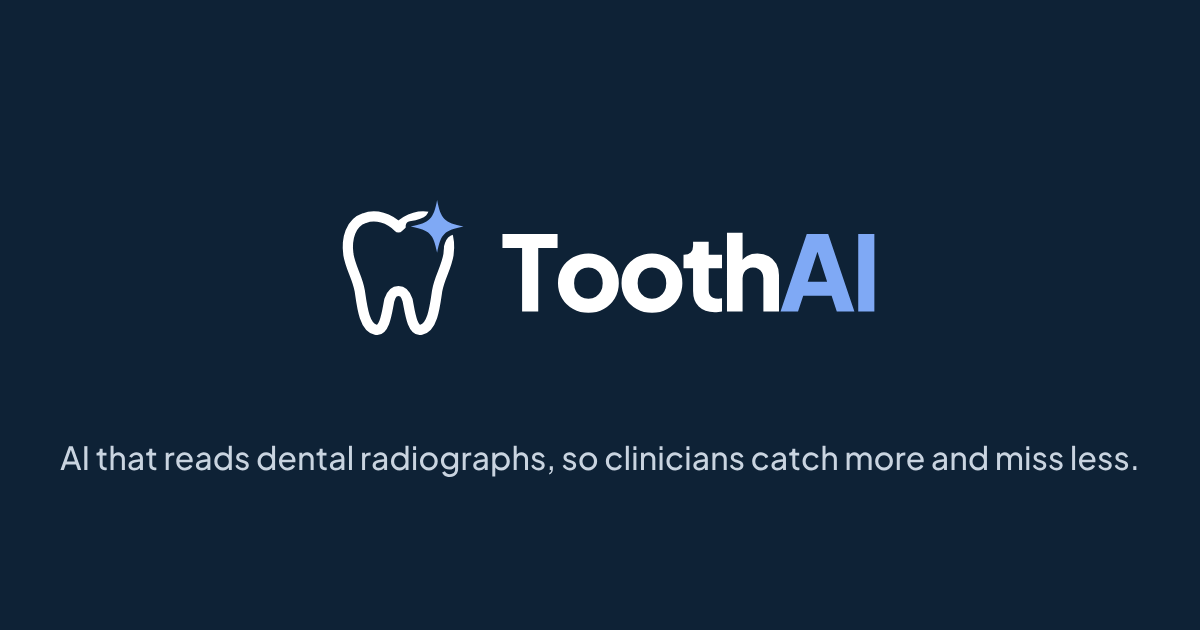
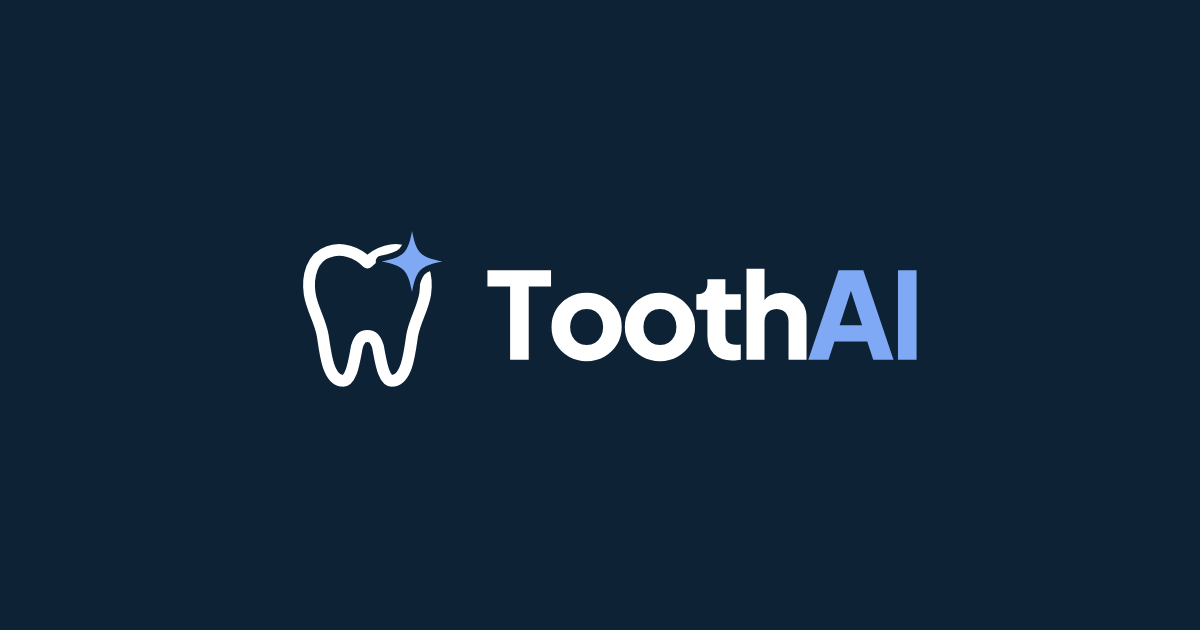
Link-preview card: the lockup alone, centred on navy (no tagline)

Changed region(s): [[0.2467, 0.3317, 0.7708, 0.6333], [0.0308, 0.6937, 0.9558, 0.754]]

diff --git a/tools/build_brand.py b/tools/build_brand.py
@@ -144,18 +144,16 @@ def favicon(px=48, uid="f"):
 
 
 def og_card():
+    """Link-preview card: the lockup alone, centred on navy (no tagline: previews are small)."""
     w, h = 1200, 630
-    size = 104
+    size = 120
     m, gap = 1.4 * size, 0.3 * size
     lo, hi = WORD.ink_bounds("ToothAI", size, TRACK)
     block = m + gap + hi - lo
-    bx, by = (w - block) / 2, 200
-    tag = "AI that reads dental radiographs, so clinicians catch more and miss less."  # guidelines tagline
-    tw = TEXT.width(tag, 32)
+    bx, by = (w - block) / 2, (h - m) / 2
     body = (f'<rect width="{w}" height="{h}" fill="{NAVY}"/>'
             + mark(WHITE, SPARK_LIGHT, "og", bx, by, m)
-            + wordmark(size, bx + m + gap - lo, by + m / 2 + WORD.cap * size / 2, WHITE, SPARK_LIGHT)
-            + TEXT.paths(tag, 32, (w - tw) / 2, 470, ["#C9D4E0"] * len(tag)))
+            + wordmark(size, bx + m + gap - lo, by + m / 2 + WORD.cap * size / 2, WHITE, SPARK_LIGHT))
     return svg(body, w, h)
 
 
